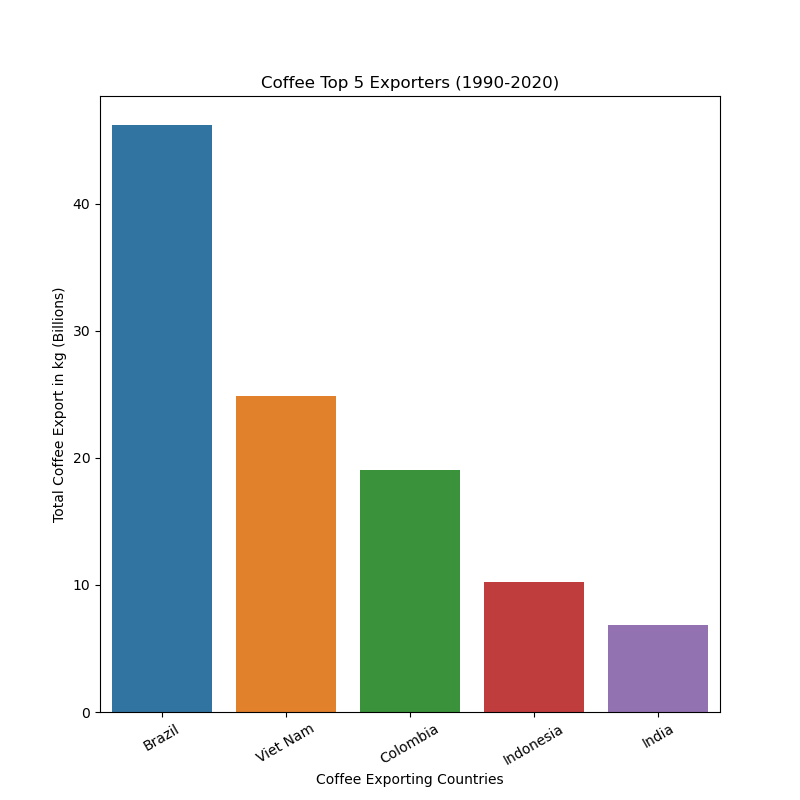
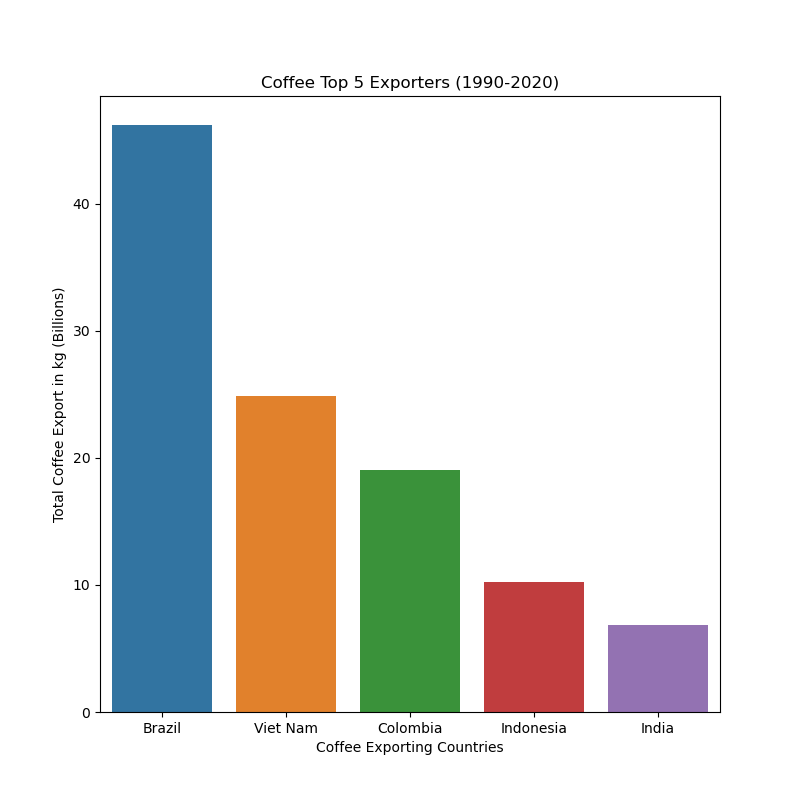
corrected export chart x axis

Changed region(s): [[0.3125, 0.9062, 0.7188, 1.0], [0.7812, 0.9062, 0.8438, 0.9375], [0.1562, 0.9062, 0.2188, 0.9375]]

diff --git a/README.md b/README.md
@@ -51,7 +51,7 @@ Permission is given on the historical data page "The selected data may be downlo
 
 ## Reporting
 
-<img src="images\top5_producers.png">
+<img src="images\top5_producers.png"><img src="images\top5_export.png">
 
 <img src="images\top5_over_time.png">
 
